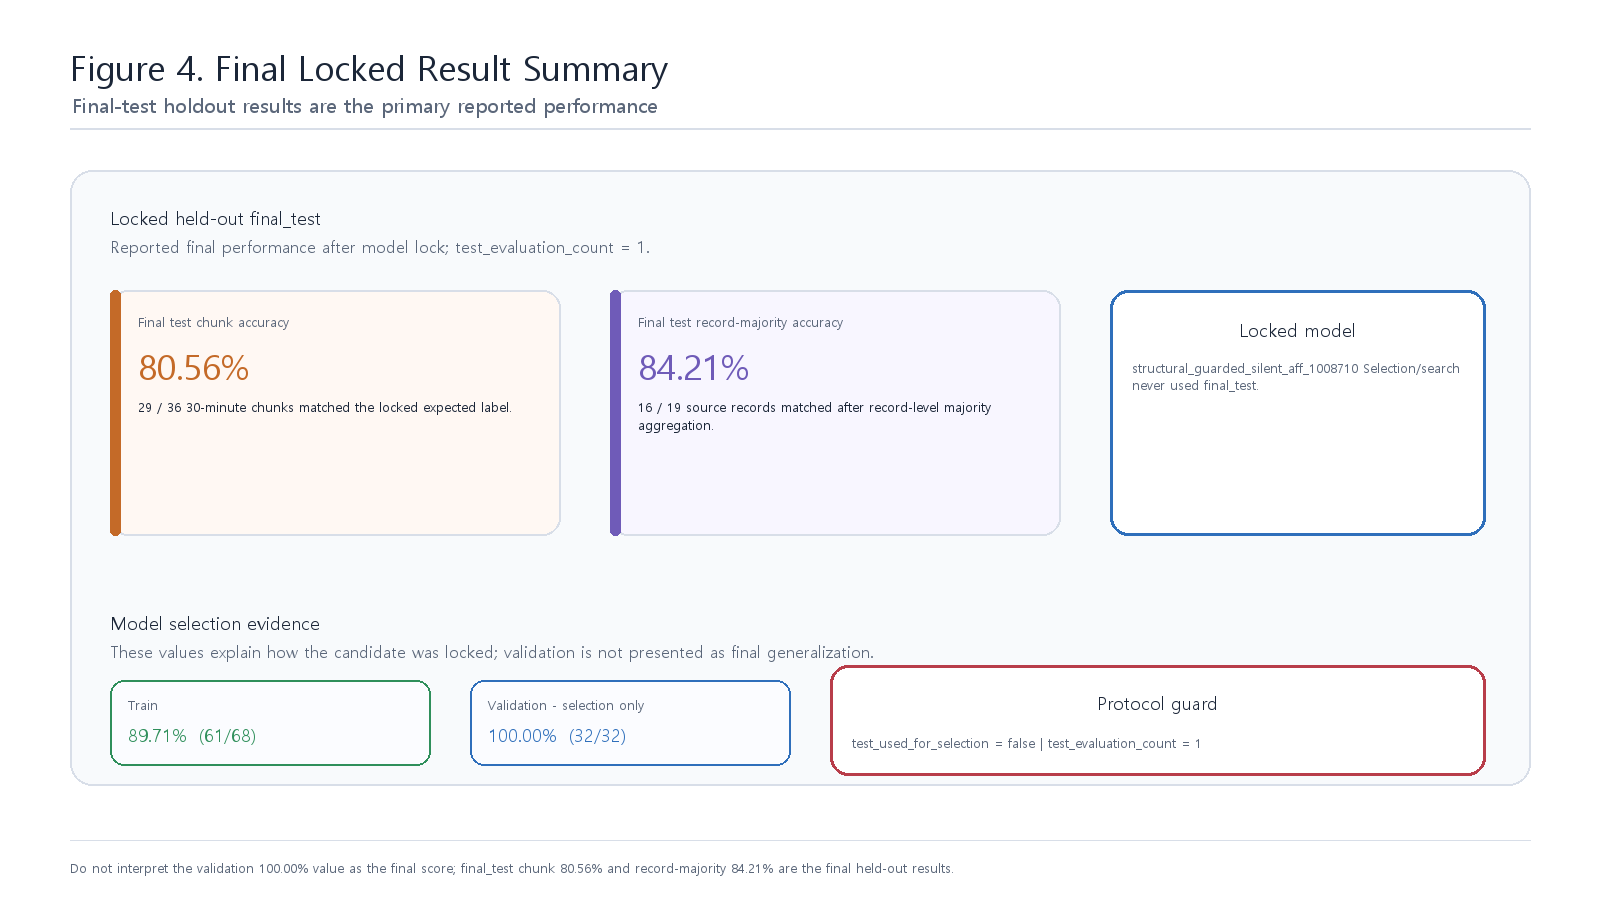
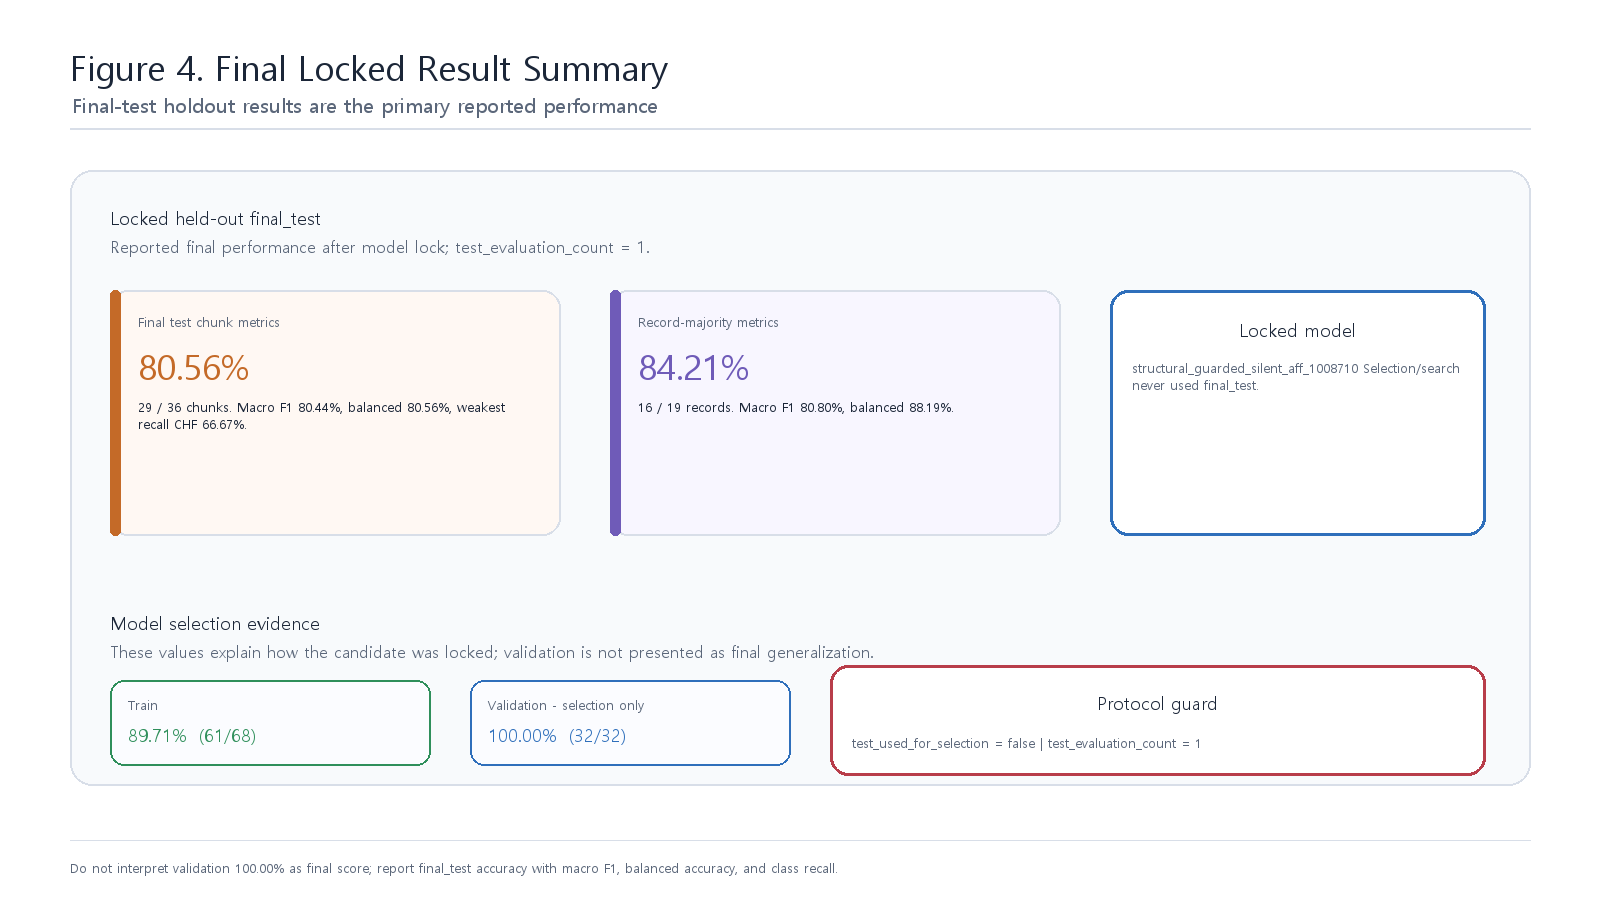
Add final class-wise metric reporting

diff --git a/tools/evaluate_final_strict_recordwise.py b/tools/evaluate_final_strict_recordwise.py
@@ -13,6 +13,10 @@ FINAL = REPO / "reports" / "final"
 CHUNK_CSV = FINAL / "strict_recordwise" / "structural_final_test_predictions.csv"
 RECORD_CSV = FINAL / "strict_recordwise" / "structural_final_test_record_predictions.csv"
 METRICS_JSON = FINAL / "final_metrics.json"
+SUMMARY_JSON = FINAL / "strict_recordwise" / "strict_recordwise_metric_summary.json"
+CHUNK_CLASS_CSV = FINAL / "strict_recordwise" / "final_test_chunk_class_metrics.csv"
+RECORD_CLASS_CSV = FINAL / "strict_recordwise" / "final_test_record_majority_class_metrics.csv"
+CLASS_LABELS = ["NSR", "CHF", "ARR", "AFF"]
 
 
 def read_rows(path: Path) -> list[dict[str, str]]:
@@ -26,26 +30,108 @@ def accuracy(rows: list[dict[str, str]]) -> tuple[int, int, float]:
     return correct, total, round(correct * 100.0 / total, 2) if total else 0.0
 
 
+def pct(value: float) -> float:
+    return round(value * 100.0, 2)
+
+
+def per_class_metrics(rows: list[dict[str, str]]) -> list[dict[str, object]]:
+    out: list[dict[str, object]] = []
+    for class_id, label in enumerate(CLASS_LABELS):
+        support = sum(1 for row in rows if int(row["class_id"]) == class_id) if "class_id" in rows[0] else sum(
+            1 for row in rows if row["class_label"] == label
+        )
+        predicted = sum(1 for row in rows if int(row["pred_class"]) == class_id)
+        tp = sum(1 for row in rows if row["class_label"] == label and int(row["pred_class"]) == class_id)
+        fp = predicted - tp
+        fn = support - tp
+        precision = tp / predicted if predicted else 0.0
+        recall = tp / support if support else 0.0
+        f1 = 2.0 * precision * recall / (precision + recall) if precision + recall else 0.0
+        out.append(
+            {
+                "class_label": label,
+                "support": support,
+                "predicted": predicted,
+                "tp": tp,
+                "fp": fp,
+                "fn": fn,
+                "precision_percent": pct(precision),
+                "recall_percent": pct(recall),
+                "f1_percent": pct(f1),
+            }
+        )
+    return out
+
+
+def summary_from_rows(rows: list[dict[str, str]]) -> dict[str, object]:
+    correct, total, acc = accuracy(rows)
+    class_metrics = per_class_metrics(rows)
+    macro_f1 = round(sum(float(row["f1_percent"]) for row in class_metrics) / len(class_metrics), 2)
+    balanced = round(sum(float(row["recall_percent"]) for row in class_metrics) / len(class_metrics), 2)
+    return {
+        "correct": correct,
+        "total": total,
+        "accuracy_percent": acc,
+        "macro_f1_percent": macro_f1,
+        "balanced_accuracy_percent": balanced,
+        "class_metrics": class_metrics,
+    }
+
+
+def write_class_csv(path: Path, rows: list[dict[str, object]]) -> None:
+    fields = [
+        "class_label",
+        "support",
+        "predicted",
+        "tp",
+        "fp",
+        "fn",
+        "precision_percent",
+        "recall_percent",
+        "f1_percent",
+    ]
+    path.parent.mkdir(parents=True, exist_ok=True)
+    with path.open("w", newline="", encoding="utf-8") as f:
+        writer = csv.DictWriter(f, fieldnames=fields, lineterminator="\n")
+        writer.writeheader()
+        writer.writerows(rows)
+
+
+def compact_metrics(summary: dict[str, object]) -> dict[str, object]:
+    return {
+        "correct": summary["correct"],
+        "total": summary["total"],
+        "accuracy_percent": summary["accuracy_percent"],
+        "macro_f1_percent": summary["macro_f1_percent"],
+        "balanced_accuracy_percent": summary["balanced_accuracy_percent"],
+        "class_recall_percent": {
+            str(row["class_label"]): row["recall_percent"] for row in summary["class_metrics"]  # type: ignore[index]
+        },
+    }
+
+
 def main() -> int:
     metrics = json.loads(METRICS_JSON.read_text(encoding="utf-8"))
-    chunk_correct, chunk_total, chunk_acc = accuracy(read_rows(CHUNK_CSV))
-    record_correct, record_total, record_acc = accuracy(read_rows(RECORD_CSV))
+    chunk_summary = summary_from_rows(read_rows(CHUNK_CSV))
+    record_summary = summary_from_rows(read_rows(RECORD_CSV))
 
     expected = {
         "final_model_id": "structural_guarded_silent_aff_1008710",
-        "final_test_chunk": {"correct": chunk_correct, "total": chunk_total, "accuracy_percent": chunk_acc},
-        "final_test_record_majority": {
-            "correct": record_correct,
-            "total": record_total,
-            "accuracy_percent": record_acc,
-        },
+        "final_test_chunk": compact_metrics(chunk_summary),
+        "final_test_record_majority": compact_metrics(record_summary),
     }
+
+    write_class_csv(CHUNK_CLASS_CSV, chunk_summary["class_metrics"])  # type: ignore[arg-type]
+    write_class_csv(RECORD_CLASS_CSV, record_summary["class_metrics"])  # type: ignore[arg-type]
+    SUMMARY_JSON.write_text(json.dumps(expected, indent=2, ensure_ascii=False) + "\n", encoding="utf-8")
 
     failures: list[str] = []
     if metrics.get("final_model_id") != expected["final_model_id"]:
         failures.append(f"final_model_id mismatch: {metrics.get('final_model_id')}")
     for section in ["final_test_chunk", "final_test_record_majority"]:
         for key, value in expected[section].items():
+            if key == "class_recall_percent":
+                continue
             if metrics.get(section, {}).get(key) != value:
                 failures.append(f"{section}.{key}: expected {value}, got {metrics.get(section, {}).get(key)}")
 

diff --git a/tools/check_final_paper_repo.py b/tools/check_final_paper_repo.py
@@ -26,9 +26,18 @@ EXPECTED = {
     ("final_test_chunk", "correct"): 29,
     ("final_test_chunk", "total"): 36,
     ("final_test_chunk", "accuracy_percent"): 80.56,
+    ("final_test_chunk", "macro_f1_percent"): 80.44,
+    ("final_test_chunk", "balanced_accuracy_percent"): 80.56,
     ("final_test_record_majority", "correct"): 16,
     ("final_test_record_majority", "total"): 19,
     ("final_test_record_majority", "accuracy_percent"): 84.21,
+    ("final_test_record_majority", "macro_f1_percent"): 80.8,
+    ("final_test_record_majority", "balanced_accuracy_percent"): 88.19,
+}
+
+EXPECTED_RECALL = {
+    "final_test_chunk": {"NSR": 100.0, "CHF": 66.67, "ARR": 77.78, "AFF": 77.78},
+    "final_test_record_majority": {"NSR": 100.0, "CHF": 75.0, "ARR": 77.78, "AFF": 100.0},
 }
 
 REQUIRED_FILES = [
@@ -45,6 +54,9 @@ REQUIRED_FILES = [
     "docs/LIMITATIONS_KR.md",
     "reports/final/final_metrics.json",
     "reports/final/strict_recordwise_final_result.md",
+    "reports/final/strict_recordwise/strict_recordwise_metric_summary.json",
+    "reports/final/strict_recordwise/final_test_chunk_class_metrics.csv",
+    "reports/final/strict_recordwise/final_test_record_majority_class_metrics.csv",
     "reports/final/hardware_validation_result.md",
     "reports/final/xsim_locked_model_summary.md",
     "reports/final/vivado_locked_model_metrics.md",
@@ -348,6 +360,21 @@ def check_metrics(failures: list[str]) -> None:
             got = payload.get(section, {}).get(key)
             if got != expected:
                 fail(f"{name} {section}.{key} expected {expected}, got {got}", failures)
+        for section, expected_recall in EXPECTED_RECALL.items():
+            got_recall = payload.get(section, {}).get("class_recall_percent", {})
+            if got_recall != expected_recall:
+                fail(f"{name} {section}.class_recall_percent expected {expected_recall}, got {got_recall}", failures)
+    summary = read_json("reports/final/strict_recordwise/strict_recordwise_metric_summary.json")
+    for (section, key), expected in EXPECTED.items():
+        if section not in {"final_test_chunk", "final_test_record_majority"}:
+            continue
+        got = summary.get(section, {}).get(key)
+        if got != expected:
+            fail(f"strict_recordwise_metric_summary {section}.{key} expected {expected}, got {got}", failures)
+    for section, expected_recall in EXPECTED_RECALL.items():
+        got_recall = summary.get(section, {}).get("class_recall_percent", {})
+        if got_recall != expected_recall:
+            fail(f"strict_recordwise_metric_summary {section}.class_recall_percent expected {expected_recall}, got {got_recall}", failures)
     if locked.get("selected_candidate_id") != FINAL_MODEL:
         fail(f"locked JSON candidate mismatch: {locked.get('selected_candidate_id')}", failures)
     if locked.get("test_used_for_selection") is not False:

diff --git a/tools/make_final_report_figures.py b/tools/make_final_report_figures.py
@@ -249,18 +249,18 @@ def result_summary(metrics: dict) -> None:
     card(
         draw,
         (110, 290, 560, 535),
-        "Final test chunk accuracy",
+        "Final test chunk metrics",
         f"{metrics['final_test_chunk']['accuracy_percent']:.2f}%",
-        f"{metrics['final_test_chunk']['correct']} / {metrics['final_test_chunk']['total']} 30-minute chunks matched the locked expected label.",
+        f"{metrics['final_test_chunk']['correct']} / {metrics['final_test_chunk']['total']} chunks. Macro F1 {metrics['final_test_chunk']['macro_f1_percent']:.2f}%, balanced {metrics['final_test_chunk']['balanced_accuracy_percent']:.2f}%, weakest recall CHF {metrics['final_test_chunk']['class_recall_percent']['CHF']:.2f}%.",
         ORANGE,
         "#fff8f3",
     )
     card(
         draw,
         (610, 290, 1060, 535),
-        "Final test record-majority accuracy",
+        "Record-majority metrics",
         f"{metrics['final_test_record_majority']['accuracy_percent']:.2f}%",
-        f"{metrics['final_test_record_majority']['correct']} / {metrics['final_test_record_majority']['total']} source records matched after record-level majority aggregation.",
+        f"{metrics['final_test_record_majority']['correct']} / {metrics['final_test_record_majority']['total']} records. Macro F1 {metrics['final_test_record_majority']['macro_f1_percent']:.2f}%, balanced {metrics['final_test_record_majority']['balanced_accuracy_percent']:.2f}%.",
         PURPLE,
         "#f8f6ff",
     )
@@ -291,7 +291,7 @@ def result_summary(metrics: dict) -> None:
         fill=WHITE,
         outline=RED,
     )
-    footnote(draw, "Do not interpret the validation 100.00% value as the final score; final_test chunk 80.56% and record-majority 84.21% are the final held-out results.")
+    footnote(draw, "Do not interpret validation 100.00% as final score; report final_test accuracy with macro F1, balanced accuracy, and class recall.")
     save(img, "final_result_summary.png")
 
 

diff --git a/FINAL_REPORT_KR.md b/FINAL_REPORT_KR.md
@@ -250,14 +250,22 @@ Validation 32/32 = 100.00%는 model-selection 성능이다. 최종 성능 주장
 
 ![Figure 4. Final result summary](reports/final/figures/final_result_summary.png)
 
-| Split | 정답 / 전체 | 정확도 |
-|---|---:|---:|
-| Train | 61 / 68 | 89.71% |
-| Validation | 32 / 32 | 100.00% |
-| Final test 30분 chunk | 29 / 36 | 80.56% |
-| Final test record-majority | 16 / 19 | 84.21% |
+| Split | 정답 / 전체 | Accuracy | Macro F1 | Balanced accuracy |
+|---|---:|---:|---:|---:|
+| Train | 61 / 68 | 89.71% | - | - |
+| Validation | 32 / 32 | 100.00% | - | - |
+| Final test 30분 chunk | 29 / 36 | 80.56% | 80.44% | 80.56% |
+| Final test record-majority | 16 / 19 | 84.21% | 80.80% | 88.19% |
+
+Class별 recall은 다음과 같다.
+
+| 평가 단위 | NSR recall | CHF recall | ARR recall | AFF recall |
+|---|---:|---:|---:|---:|
+| Final test 30분 chunk | 100.00% | 66.67% | 77.78% | 77.78% |
+| Final test record-majority | 100.00% | 75.00% | 77.78% | 100.00% |
 
 Final test confusion matrix는 `reports/final/strict_recordwise/structural_final_test_confusion_matrix.csv`에 저장되어 있다.
+Class별 precision/recall/F1 세부 표는 `reports/final/strict_recordwise/final_test_chunk_class_metrics.csv`와 `reports/final/strict_recordwise/final_test_record_majority_class_metrics.csv`에 저장되어 있다. Chunk 기준 weakest class는 CHF recall 66.67%이며, 이 값은 최종 성능 한계로 같이 보고한다.
 
 ![Figure 8. Final-test confusion matrix](reports/final/figures/final_test_confusion_matrix.png)
 

diff --git a/reports/final/strict_recordwise_final_result.md b/reports/final/strict_recordwise_final_result.md
@@ -9,7 +9,11 @@
 | Train | 61 / 68 = 89.71% |
 | Validation | 32 / 32 = 100.00% |
 | Final test chunk | 29 / 36 = 80.56% |
+| Final test chunk macro F1 / balanced accuracy | 80.44% / 80.56% |
+| Final test chunk class recall | NSR 100.00%, CHF 66.67%, ARR 77.78%, AFF 77.78% |
 | Final test record-majority | 16 / 19 = 84.21% |
+| Final test record-majority macro F1 / balanced accuracy | 80.80% / 88.19% |
+| Final test record-majority class recall | NSR 100.00%, CHF 75.00%, ARR 77.78%, AFF 100.00% |
 | Test evaluation count | 1 |
 
 Validation accuracy는 model-selection evidence로만 보고한다. 최종 generalization claim은 locked final test 결과를 기준으로 한다.
@@ -21,3 +25,6 @@ Validation accuracy는 model-selection evidence로만 보고한다. 최종 gener
 - Predictions: `reports/final/strict_recordwise/final_test_predictions.csv`
 - Record-majority predictions: `reports/final/strict_recordwise/structural_final_test_record_predictions.csv`
 - Confusion matrix: `reports/final/strict_recordwise/structural_final_test_confusion_matrix.csv`
+- Metric summary: `reports/final/strict_recordwise/strict_recordwise_metric_summary.json`
+- Chunk class metrics: `reports/final/strict_recordwise/final_test_chunk_class_metrics.csv`
+- Record-majority class metrics: `reports/final/strict_recordwise/final_test_record_majority_class_metrics.csv`

diff --git a/README.md b/README.md
@@ -37,11 +37,15 @@ flowchart LR
 | Train | 61 / 68 = 89.71% |
 | Validation | 32 / 32 = 100.00% |
 | Final test 30분 chunk | 29 / 36 = 80.56% |
+| Final test 30분 chunk macro F1 / balanced accuracy | 80.44% / 80.56% |
+| Final test 30분 chunk class recall | NSR 100.00%, CHF 66.67%, ARR 77.78%, AFF 77.78% |
 | Final test record-majority | 16 / 19 = 84.21% |
+| Final test record-majority macro F1 / balanced accuracy | 80.80% / 88.19% |
+| Final test record-majority class recall | NSR 100.00%, CHF 75.00%, ARR 77.78%, AFF 100.00% |
 | Test evaluation count | 1 |
 | Test used for selection | false |
 
-Validation 100.00%는 model-selection 성능으로만 해석한다. 최종 held-out 성능 주장은 locked final_test의 30분 chunk 정확도 80.56%와 record-majority 정확도 84.21%를 기준으로 한다.
+Validation 100.00%는 model-selection 성능으로만 해석한다. 최종 held-out 성능 주장은 locked final_test의 accuracy, macro F1, balanced accuracy, class별 recall을 기준으로 한다. Chunk 기준 weakest class는 CHF recall 66.67%이다.
 
 ## 4. Hardware Implementation
 

diff --git a/docs/PAPER_SUMMARY_KR.md b/docs/PAPER_SUMMARY_KR.md
@@ -17,11 +17,15 @@
 | Train | 61 / 68 = 89.71% |
 | Validation | 32 / 32 = 100.00% |
 | Final test 30분 chunk | 29 / 36 = 80.56% |
+| Final test 30분 chunk macro F1 / balanced accuracy | 80.44% / 80.56% |
+| Final test 30분 chunk class recall | NSR 100.00%, CHF 66.67%, ARR 77.78%, AFF 77.78% |
 | Final test record-majority | 16 / 19 = 84.21% |
+| Final test record-majority macro F1 / balanced accuracy | 80.80% / 88.19% |
+| Final test record-majority class recall | NSR 100.00%, CHF 75.00%, ARR 77.78%, AFF 100.00% |
 | Test evaluation count | 1 |
 | Test used for selection | false |
 
-Validation 100.00%는 model-selection 성능으로만 해석한다. 최종 held-out 성능은 final_test 30분 chunk 80.56%와 record-majority 84.21% 기준으로 보고한다.
+Validation 100.00%는 model-selection 성능으로만 해석한다. 최종 held-out 성능은 final_test accuracy, macro F1, balanced accuracy, class별 recall을 함께 기준으로 보고한다.
 
 ## 제출 포지션
 

diff --git a/docs/LIMITATIONS_KR.md b/docs/LIMITATIONS_KR.md
@@ -31,7 +31,11 @@
 | 항목 | 값 |
 |---|---:|
 | Final test 30분 chunk | 29 / 36 = 80.56% |
+| Final test 30분 chunk macro F1 / balanced accuracy | 80.44% / 80.56% |
+| Final test 30분 chunk weakest recall | CHF 66.67% |
 | Final test record-majority | 16 / 19 = 84.21% |
+| Final test record-majority macro F1 / balanced accuracy | 80.80% / 88.19% |
+| Final test record-majority weakest recall | CHF 75.00%, ARR 77.78% |
 
 Validation 32/32 = 100.00%는 Final Membrane 후보를 선택하는 단계의 성능이며, 최종 held-out 일반화 성능으로 쓰지 않는다.
 